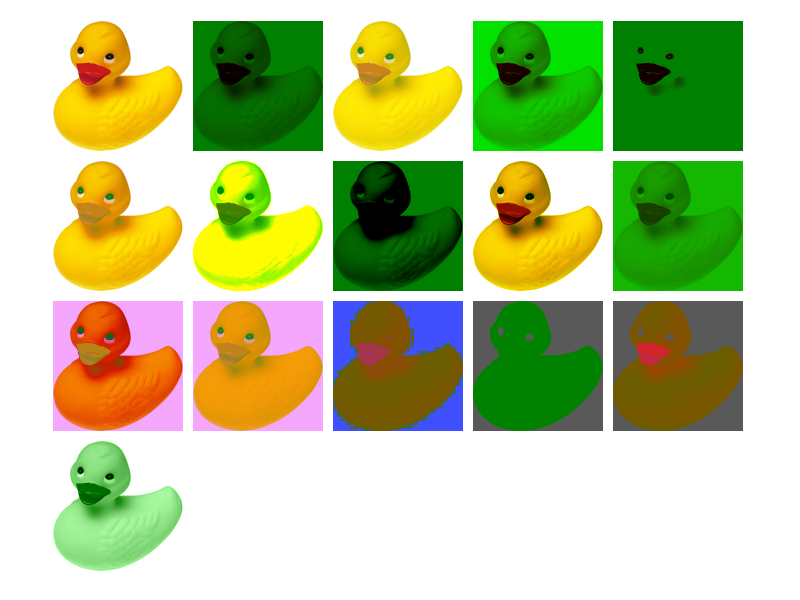
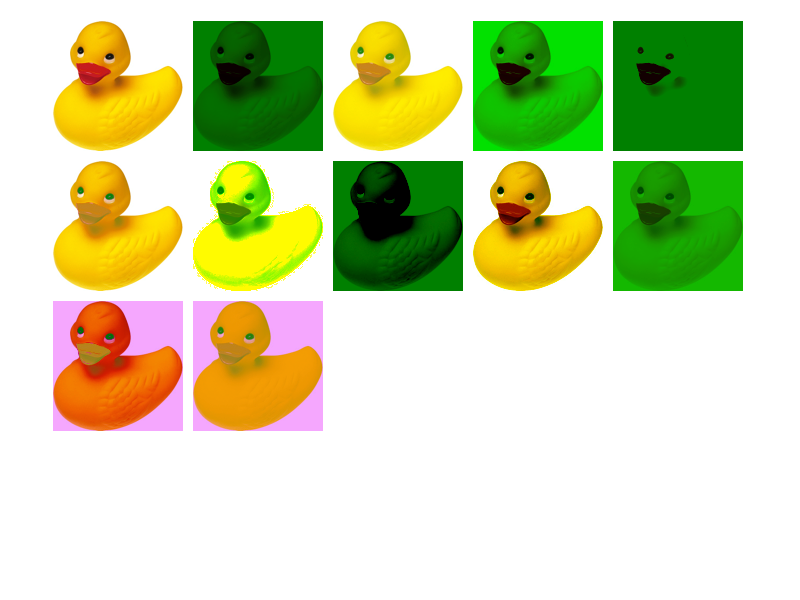
[CSS Blending] Remove support for non-separable blend modes from background-blend-mode https://bugs.webkit.org/show_bug.cgi?id=132327
Patch by Ion Rosca <rosca@adobe.com> on 2014-05-02
Reviewed by Dean Jackson.

Source/WebCore:
Removed support for non-separable background blend modes from the CSS parser.
Covered by existing tests.

* css/CSSParser.cpp:
(WebCore::CSSParser::parseFillProperty):

LayoutTests:
* css3/compositing/background-blend-mode-gif-color-2.html:
* css3/compositing/background-blend-mode-gif-color.html:
* css3/compositing/background-blend-mode-gradient-color.html:
* css3/compositing/background-blend-mode-gradient-gradient.html:
* css3/compositing/background-blend-mode-gradient-image.html:
* css3/compositing/background-blend-mode-image-color.html:
* css3/compositing/background-blend-mode-image-image.html:
* css3/compositing/background-blend-mode-image-svg.html:
* css3/compositing/background-blend-mode-multiple-background-layers.html:
* css3/compositing/background-blend-mode-property-expected.txt:
* css3/compositing/background-blend-mode-property-parsing-expected.txt:
* css3/compositing/background-blend-mode-svg-color.html:
* css3/compositing/effect-background-blend-mode-tiled.html:
* css3/compositing/effect-background-blend-mode.html:
* css3/compositing/script-tests/background-blend-mode-property-parsing.js:
* css3/compositing/script-tests/background-blend-mode-property.js:
* platform/mac/css3/compositing/background-blend-mode-gif-color-2-expected.png:
* platform/mac/css3/compositing/background-blend-mode-gif-color-2-expected.txt:
[…]

Changed region(s): [[0.4062, 0.48, 0.9375, 0.72], [0.0625, 0.72, 0.25, 0.96]]

diff --git a/LayoutTests/css3/compositing/script-tests/background-blend-mode-property-parsing.js b/LayoutTests/css3/compositing/script-tests/background-blend-mode-property-parsing.js
@@ -46,7 +46,7 @@ function testBlendModeRule(description, rule, expectedLength, expectedValue, exp
 	    shouldBeType("blendModeRule", "CSSValueList");
 }
 
-var blendmodes = ["normal", "multiply, screen", "screen, hue", "overlay, normal", "darken, lighten, normal, luminosity", "lighten", "color-dodge", "color-burn", "hard-light", "soft-light", "difference", "exclusion", "hue", "saturation", "color", "luminosity"];
+var blendmodes = ["normal", "multiply, screen", "screen, multiply", "overlay, normal", "darken, lighten, normal, multiply", "lighten", "color-dodge", "color-burn", "hard-light", "soft-light", "difference", "exclusion"];
 
 for(x in blendmodes)
    testBlendModeRule("Basic reference", blendmodes[x], 1, blendmodes[x]);

diff --git a/LayoutTests/css3/compositing/script-tests/background-blend-mode-property.js b/LayoutTests/css3/compositing/script-tests/background-blend-mode-property.js
@@ -20,7 +20,7 @@ shouldBe("declaration.length", "1");
 shouldBe("declaration.getPropertyValue('background-blend-mode')", "\'" + blendmode + ", " + blendmode + "\'");
 }
 
-var blendmodes = ["normal", "multiply", "screen", "overlay", "darken", "lighten", "color-dodge", "color-burn", "hard-light", "soft-light", "difference", "exclusion", "hue", "saturation", "color", "luminosity"];
+var blendmodes = ["normal", "multiply", "screen", "overlay", "darken", "lighten", "color-dodge", "color-burn", "hard-light", "soft-light", "difference", "exclusion"];
 
 for(x in blendmodes)
    testblendmode(blendmodes[x]);

diff --git a/LayoutTests/css3/compositing/background-blend-mode-gif-color-2.html b/LayoutTests/css3/compositing/background-blend-mode-gif-color-2.html
@@ -34,10 +34,6 @@
     <div style="background-blend-mode: soft-light, normal"></div>
     <div style="background-blend-mode: difference, normal"></div>
     <div style="background-blend-mode: exclusion, normal"></div>
-    <div style="background-blend-mode: hue, normal;"></div>
-    <div style="background-blend-mode: saturation, normal"></div>
-    <div style="background-blend-mode: color, normal"></div>
-    <div style="background-blend-mode: luminosity, normal"></div>
     <script type="text/javascript">
         window.setTimeout("done()", 400);
     </script>

diff --git a/LayoutTests/css3/compositing/background-blend-mode-svg-color.html b/LayoutTests/css3/compositing/background-blend-mode-svg-color.html
@@ -30,9 +30,5 @@
         <div style="background-blend-mode: soft-light, normal"></div>
         <div style="background-blend-mode: difference, normal"></div>
         <div style="background-blend-mode: exclusion, normal"></div>
-        <div style="background-blend-mode: hue, normal;"></div>
-        <div style="background-blend-mode: saturation, normal"></div>
-        <div style="background-blend-mode: color, normal"></div>
-        <div style="background-blend-mode: luminosity, normal"></div>
 </body>
 </html>

diff --git a/LayoutTests/css3/compositing/background-blend-mode-gradient-color.html b/LayoutTests/css3/compositing/background-blend-mode-gradient-color.html
@@ -30,10 +30,6 @@
         <li style="background-blend-mode: soft-light, normal"></li>
         <li style="background-blend-mode: difference, normal"></li>
         <li style="background-blend-mode: exclusion, normal"></li>
-        <li style="background-blend-mode: hue, normal;"></li>
-        <li style="background-blend-mode: saturation, normal"></li>
-        <li style="background-blend-mode: color, normal"></li>
-        <li style="background-blend-mode: luminosity, normal"></li>
     </ul>
 </body>
 

diff --git a/LayoutTests/css3/compositing/background-blend-mode-gradient-gradient.html b/LayoutTests/css3/compositing/background-blend-mode-gradient-gradient.html
@@ -30,10 +30,6 @@
         <li style="background-blend-mode: soft-light, normal"></li>
         <li style="background-blend-mode: difference, normal"></li>
         <li style="background-blend-mode: exclusion, normal"></li>
-        <li style="background-blend-mode: hue, normal;"></li>
-        <li style="background-blend-mode: saturation, normal"></li>
-        <li style="background-blend-mode: color, normal"></li>
-        <li style="background-blend-mode: luminosity, normal"></li>
     </ul>
 </body>
 

diff --git a/LayoutTests/css3/compositing/background-blend-mode-gradient-image.html b/LayoutTests/css3/compositing/background-blend-mode-gradient-image.html
@@ -30,10 +30,6 @@
         <li style="background-blend-mode: soft-light, normal"></li>
         <li style="background-blend-mode: difference, normal"></li>
         <li style="background-blend-mode: exclusion, normal"></li>
-        <li style="background-blend-mode: hue, normal;"></li>
-        <li style="background-blend-mode: saturation, normal"></li>
-        <li style="background-blend-mode: color, normal"></li>
-        <li style="background-blend-mode: luminosity, normal"></li>
     </ul>
 </body>
 

diff --git a/LayoutTests/css3/compositing/background-blend-mode-image-color.html b/LayoutTests/css3/compositing/background-blend-mode-image-color.html
@@ -26,10 +26,6 @@
         <li style="background-blend-mode: soft-light, normal"></li>
         <li style="background-blend-mode: difference, normal"></li>
         <li style="background-blend-mode: exclusion, normal"></li>
-        <li style="background-blend-mode: hue, normal;"></li>
-        <li style="background-blend-mode: saturation, normal"></li>
-        <li style="background-blend-mode: color, normal"></li>
-        <li style="background-blend-mode: luminosity, normal"></li>
     </ul>
 </body>
 

diff --git a/LayoutTests/css3/compositing/background-blend-mode-image-image.html b/LayoutTests/css3/compositing/background-blend-mode-image-image.html
@@ -26,10 +26,6 @@
         <li style="background-blend-mode: soft-light, normal"></li>
         <li style="background-blend-mode: difference, normal"></li>
         <li style="background-blend-mode: exclusion, normal"></li>
-        <li style="background-blend-mode: hue, normal;"></li>
-        <li style="background-blend-mode: saturation, normal"></li>
-        <li style="background-blend-mode: color, normal"></li>
-        <li style="background-blend-mode: luminosity, normal"></li>
     </ul>
 </body>
 

diff --git a/LayoutTests/css3/compositing/background-blend-mode-image-svg.html b/LayoutTests/css3/compositing/background-blend-mode-image-svg.html
@@ -30,10 +30,6 @@
         <li style="background-blend-mode: soft-light, normal"></li>
         <li style="background-blend-mode: difference, normal"></li>
         <li style="background-blend-mode: exclusion, normal"></li>
-        <li style="background-blend-mode: hue, normal;"></li>
-        <li style="background-blend-mode: saturation, normal"></li>
-        <li style="background-blend-mode: color, normal"></li>
-        <li style="background-blend-mode: luminosity, normal"></li>
     </ul>
 </body>
 

diff --git a/LayoutTests/css3/compositing/background-blend-mode-gif-color.html b/LayoutTests/css3/compositing/background-blend-mode-gif-color.html
@@ -24,9 +24,5 @@
     <div style="background-blend-mode: soft-light, normal"></div>
     <div style="background-blend-mode: difference, normal"></div>
     <div style="background-blend-mode: exclusion, normal"></div>
-    <div style="background-blend-mode: hue, normal;"></div>
-    <div style="background-blend-mode: saturation, normal"></div>
-    <div style="background-blend-mode: color, normal"></div>
-    <div style="background-blend-mode: luminosity, normal"></div>
 </body>
 </html>

diff --git a/LayoutTests/css3/compositing/effect-background-blend-mode-tiled.html b/LayoutTests/css3/compositing/effect-background-blend-mode-tiled.html
@@ -30,10 +30,6 @@ li
 <li style="background-blend-mode: soft-light, normal"></li>
 <li style="background-blend-mode: difference, normal"></li>
 <li style="background-blend-mode: exclusion, normal"></li>
-<li style="background-blend-mode: hue, normal;"></li>
-<li style="background-blend-mode: saturation, normal"></li>
-<li style="background-blend-mode: color, normal"></li>
-<li style="background-blend-mode: luminosity, normal"></li>
 </ul>
 </body>
 
